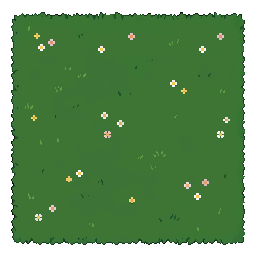
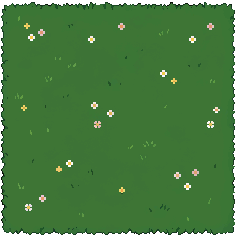
Crop dark border from grass tile to remove seams when tiling

diff --git a/ethics game/reclaim-the-block/src/index.css b/ethics game/reclaim-the-block/src/index.css
@@ -1371,7 +1371,7 @@ input, select { font-family: inherit; }
     "corner-bl  board-zone  corner-br";
   background-image: url('/grass-bg.png');
   background-size: auto;
-  background-repeat: round;
+  background-repeat: repeat;
   image-rendering: pixelated;
 }
 